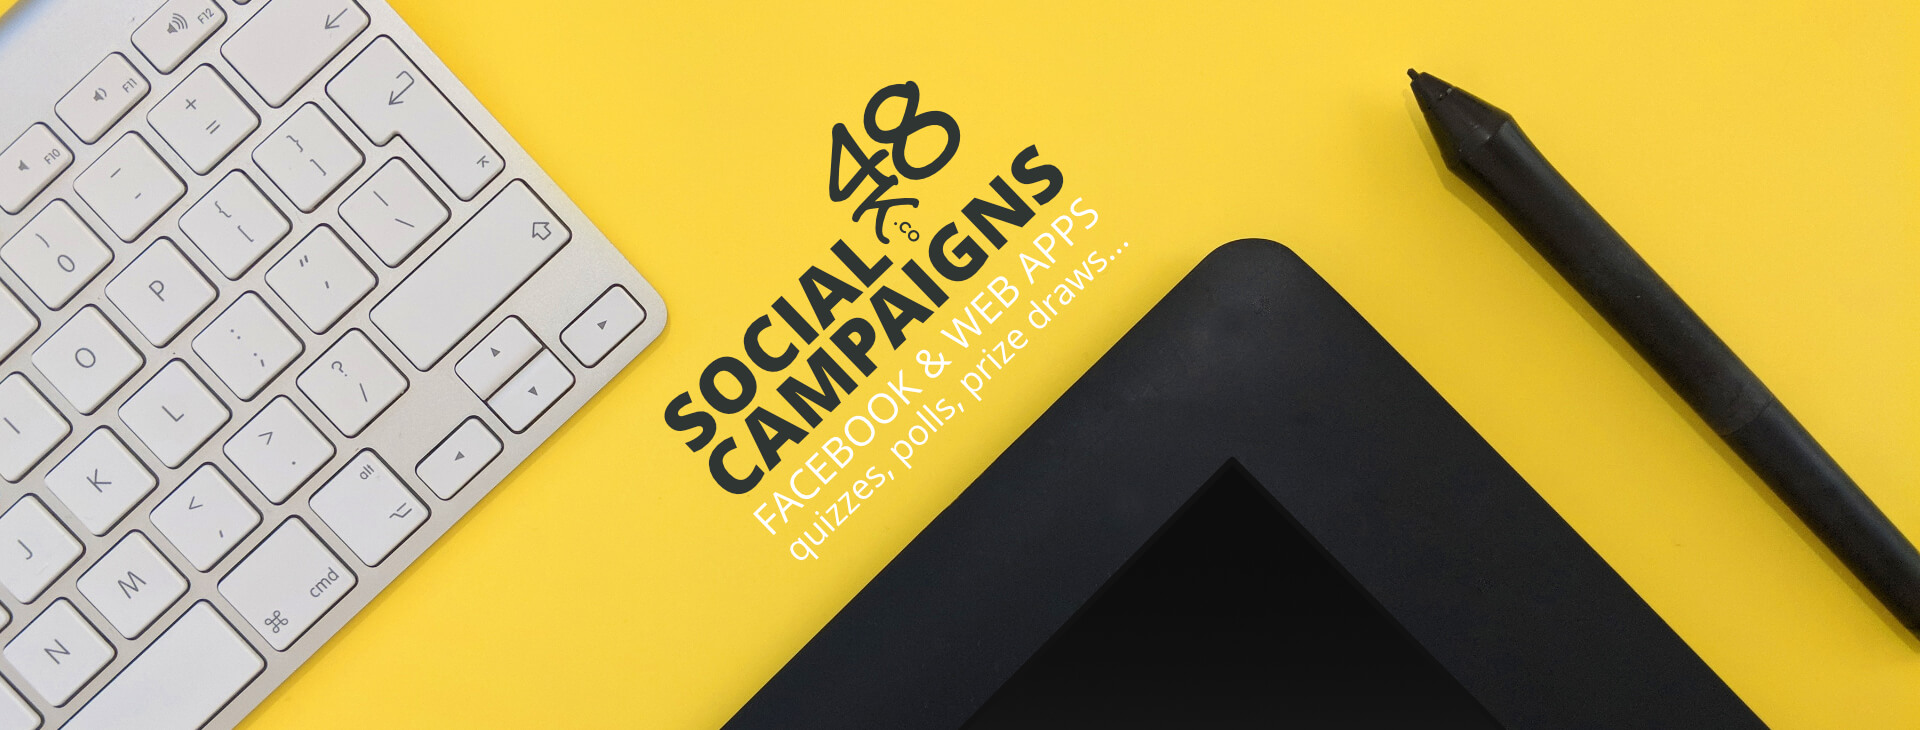
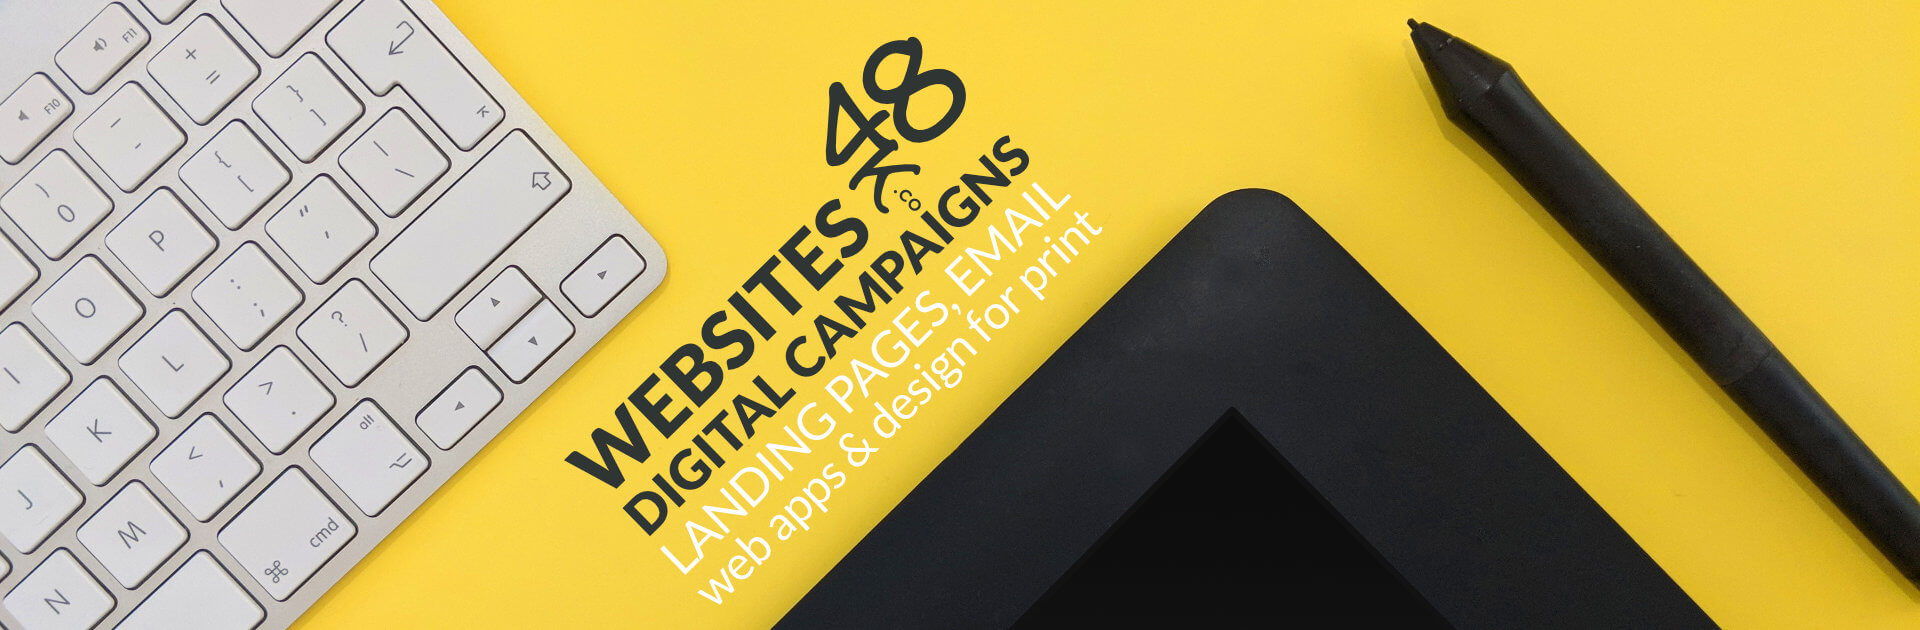
2019 updates

diff --git a/index.html b/index.html
@@ -3,9 +3,9 @@
 <head>
     <meta name="viewport" content="width=device-width, initial-scale=1.0" />
     <meta charset='UTF-8'>
-    <title>48k - digital campaigns and Facebook apps</title>
+    <title>48k - websites, digital campaigns and design for print</title>
 
-    <meta name="description" content="Digital Expertise for Agencies and Marketing Departments">
+    <meta name="description" content="Digital Expertise for Agencies, Marketing Departments and SMEs.">
 
     <link href='//fonts.googleapis.com/css?family=Raleway:400,800,600,700' rel='stylesheet' type='text/css'>
     <link href="static/style.min.css" rel="stylesheet" />
@@ -17,33 +17,20 @@
     
 </head>
 <body>
-    <div id="nav-wrapper">
-        <nav>
-            <ul>
-                <li><a href="#facebook-apps">Facebook apps</a></li>
-                <li><a href="#microsites">Microsites</a></li>
-                <li><a href="#calculators">Calculators &amp; quizzes</a></li>
-                <li><a href="#email">Email campaigns</a></li>
-                <li><a href="#how-we-work">How we work</a></li>
-                <li><a href="https://48kportfolio.z16.web.core.windows.net/bbe12be3-60a2-4ffc-aab8-7f4d026d1c50/index.html">Projects</a></li>
-            </ul>
-        </nav>
-    </div>
 
-
-    <header>
+    <header class="main-header">
         <img src="static/images/header.jpg" alt="48k" />
     </header>
 
-    <div class="colour-block lightblue" id="facebook-apps">
-        <section class="no-pad-b">
-            <h2>Facebook apps &amp; competitions</h2>
-            <p>
-                We've helped clients of all sizes to build and engage audiences on Facebook. Whether you're looking for a simple competition,
-                or something a bit more fun, our experience could be just what you need.
-            </p>
+    <div class="colour-block white">
+        <section>
+            <h1>We deliver websites, digital marketing, and design for print</h1>
 
-            <img src="static/images/facebook.jpg" alt="Facebook apps and competitions" />
+            <p>We offer a flexible, personal and cost effective service that means you deal directly with the people working on your project. Our clients are part of the team, we keep you up to date, ensure you get the answers you need and the results you want.</p>
+
+            <p>We work with businesses of all sizes from SMEs to large enterprises, with agencies and directly with marketing departments. Find out more about us and <a href="#how-we-work">how we work</a>.</p>
+
+            <p>Call us on <a href="tel:01400223566">01400 22 35 66</a> to discuss how we can help you achieve more online, or send details of your project to <a href="mailto:hey@48k.co">hey@48k.co</a>.</p>
 
             <a href="mailto:hey@48k.co" class="contact">hey@48k.co</a>
         </section>
@@ -51,10 +38,14 @@
 
     <div class="colour-block darkblue" id="microsites">
         <section>
-            <h2 class="greentext">Microsites</h2>
+            <h2>Website design, development & eCommerce</h2>
+
+            <p>It goes without saying that we know the web. We're experienced at building content managed web sites, campaign landing pages, custom applications and more. 
+                We build with SEO in mind and use responsive techniques to ensure your message gets across, regardless of platform or device.</p>
+
             <p>
-                It goes without saying that we know the web. We're experienced in building campaign microsites, content managed web sites and more,
-                using responsive techniques to ensure your message gets across regardless of platform or device.
+                If you're looking to sell online we can help you with a secure and fully featured Shopify store. 
+                For existing Shopify stores we can help you with design, custom features and marketing automation to grow your business.
             </p>
 
             <img src="static/images/microsites.png" alt="Microsites" />
@@ -63,9 +54,43 @@
         </section>
     </div>
 
+    <div class="colour-block turquoise" id="design">
+        <section>
+            <h2 class="greytext">Design & print</h2>
+
+            <div class="row">
+                <div class="grid-7">
+                    <img src="static/images/design-print02.png" class="center" alt="Design & print" />
+                </div>
+
+                <div class="grid-6">
+                    <p>Leaflets, brochures, banners and pull up stands, whatever your needs we design, manage, print and deliver your marketing materials so you can look great at a competitive price.</p>
+
+                    <p>Already have existing artwork that needs updating? No problem, just drop over some details and we can suggest the most efficient way to get the job done.</p>
+                </div>
+            </div>
+
+            <a href="mailto:hey@48k.co" class="contact">hey@48k.co</a>
+        </section>
+    </div>
+
+    <div class="colour-block lightblue" id="facebook-apps">
+        <section class="no-pad-b">
+            <h2>Marketing campaigns & landing pages</h2>
+            <p>
+                We've helped clients of all sizes to build and engage audiences online. Whether you're looking for a simple landing page,
+                or a more advanced campaign, our experience could be just what you need.
+            </p>
+
+            <img src="static/images/facebook.jpg" alt="Marketing campaigns and landing pages" />
+
+            <a href="mailto:hey@48k.co" class="contact">hey@48k.co</a>
+        </section>
+    </div>
+
     <div class="colour-block lightblue" id="calculators">
         <section>
-            <h2 class="orangetext">Calculators &amp; quizzes</h2>
+            <h2 class="orangetext">Web &amp; mobile apps</h2>
 
             <div class="row">
                 <div class="grid-7">
@@ -109,12 +134,12 @@
             <p>
                 We've a wealth of agency and client side experience combined with industry contacts built over many years.
                 We offer a flexible, personal and cost effective service. This means that you'll be speaking directly with the people working on your project,
-                always a good thing in an industry where complexity is easy but simplicity takes practice.
+                always a good thing in an industry where complexity is easy but simplicity comes with experience.
             </p>
 
             <p>
-                Between us 48k have more than 25 years experience of delivering digital projects for both public and private sector clients across agencies
-                and directly to marketing departments. We're familiar with the unique challenges each can present.
+                Between us 48k have more than 25 years experience of delivering digital projects for both public and private sector clients across agencies, 
+                directly to marketing departments and small businesses. We're familiar with the unique challenges each can present.
             </p>
 
             <p>We understand the importance of demonstrating return on investment. And recognise the challenge of squeezing the most from your budget, big or small.</p>

diff --git a/static/style.min.css b/static/style.min.css
@@ -1,1 +1,1 @@
-body{margin:0;padding:0;border:0;font-family:Raleway,sans-serif;font-size:1em}p{margin-top:0;font-size:1.125em;line-height:1.5em;font-weight:400}p strong{font-weight:700}p a{color:#fff;font-weight:600}i{font-style:italic}img{display:block;max-width:100%}img.center{margin:0 auto}img.margin-b{margin-bottom:20px}.red{background-color:#e84c3d;color:#fff}.lightblue{background-color:#eff3f4;color:#374756}.darkblue{color:#fff}.medblue{background-color:#3a5998;color:#fff}.turquoise{background-color:#49d5ca;color:#374756}.darkblue{background-color:#2d3e50}.yellow{background-color:#f9c742}.black{background-color:#000}.yellowtext{color:#f9c742}.bluetext{color:#374756}.greentext{color:#a9cf6a}.orangetext{color:#fd5f42}.greytext{color:#e4e3de}.lightblue a{color:#374756}.colour-block{border-bottom:3px solid #323338}section{max-width:1046px;margin:0 auto;padding:40px 20px 60px;position:relative}header{position:relative;padding:0}header img{display:block;max-width:100%}header.subpage{padding-bottom:10px}footer{padding:60px 0}.no-pad-b{padding-bottom:0}.row:before{display:table;content:" "}.row:after{clear:both;display:table;content:" "}.row{margin-right:-15px;margin-left:-15px}#nav-wrapper{background-color:#f9c742}nav{max-width:1046px;margin:0 auto}nav ul{padding:0;width:900px;margin:0 auto}nav ul:after{clear:both;display:table;content:" "}nav ul li{list-style-type:none;float:left;display:block;margin:0 18px}nav ul li a{font-size:.9375em;color:#374756;font-weight:600;text-decoration:none;line-height:2.3em}nav ul li a:hover{color:#e84c3d}h1{text-align:center;font-size:3.5em;font-weight:700;color:#fff;text-shadow:2px 2px 2px rgba(0,0,0,.2);padding-right:20px;margin-bottom:1.5em}.no-margin-b{margin-bottom:0}h2{text-align:center;text-transform:uppercase;font-size:2.3em;font-weight:700}h2.subhead{text-transform:none;font-size:1.8em;margin-top:0}h3{font-size:2em;font-weight:700;margin-top:.5em}h4{font-size:1.2em;font-weight:700;margin-top:0;margin-bottom:.3em}.grid-6{width:472px;margin:0 10px;float:left}.grid-6-5{width:513px;margin:0 10px;float:left}.grid-7{width:554px;margin:0 10px;float:left}.highlight{font-size:24px;font-weight:600;line-height:1.2em;letter-spacing:-.5px}.contact{display:inline-block;background-color:#f9c742;border:3px solid #374756;border-radius:25px;padding:1px 15px;text-decoration:none;font-weight:600;font-size:1em;line-height:2.5em;color:#374756;position:absolute;bottom:-26px;margin:0 auto;left:0;right:0;width:250px;text-align:center;z-index:10}.contact:hover{color:#e84c3d}iframe{width:100%;border:2px solid #fff;height:420px;overflow:hidden}@media only screen and (max-width:1100px){.grid-6,.grid-6-5,.grid-7{width:98%;padding-bottom:40px}.grid-6-5{padding-bottom:0}img{margin:0 auto}#nav-wrapper{display:none}iframe{width:98%}}
+body{margin:0;padding:0;border:0;font-family:Raleway,sans-serif;font-size:1em}p{margin-top:0;font-size:1.125em;line-height:1.5em;font-weight:400}p strong{font-weight:700}p a{color:#fff;font-weight:600}i{font-style:italic}img{display:block;max-width:100%}img.center{margin:0 auto}img.margin-b{margin-bottom:20px}.red{background-color:#e84c3d;color:#fff}.lightblue{background-color:#eff3f4;color:#374756}.white{background-color:#fff;color:#374756}.darkblue{color:#fff}.medblue{background-color:#3a5998;color:#fff}.turquoise{background-color:#49d5ca;color:#374756}.darkblue{background-color:#2d3e50}.yellow{background-color:#f9c742}.black{background-color:#000}.yellowtext{color:#f9c742}.bluetext{color:#374756}.greentext{color:#a9cf6a}.orangetext{color:#fd5f42}.greytext{color:#e4e3de}.lightblue a,.white a{color:#374756}a[href^="tel:"]{text-decoration:none}.colour-block{border-bottom:3px solid #323338}section{max-width:1046px;margin:0 auto;padding:40px 20px 60px;position:relative}header{position:relative;padding:0}header img{display:block;max-width:100%}header.subpage{padding-bottom:10px}footer{padding:60px 0}.no-pad-b{padding-bottom:0}.row:before{display:table;content:" "}.row:after{clear:both;display:table;content:" "}.row{margin-right:-15px;margin-left:-15px}#nav-wrapper{background-color:#f9c742}nav{max-width:1046px;margin:0 auto}nav ul{padding:0;width:900px;margin:0 auto}nav ul:after{clear:both;display:table;content:" "}nav ul li{list-style-type:none;float:left;display:block;margin:0 18px}nav ul li a{font-size:.9375em;color:#374756;font-weight:600;text-decoration:none;line-height:2.3em}nav ul li a:hover{color:#e84c3d}h1{text-align:center;font-size:3.5em;font-weight:700;text-shadow:2px 2px 2px rgba(0,0,0,.2);padding-right:20px;margin-bottom:1em;margin-top:0;color:#374756}.no-margin-b{margin-bottom:0}h2{text-align:center;font-size:2.3em;font-weight:700}h2.subhead{text-transform:none;font-size:1.8em;margin-top:0}h3{text-align:center;font-size:2em;font-weight:700;margin-top:.5em}h4{font-size:1.2em;font-weight:700;margin-top:0;margin-bottom:.3em}.grid-6{width:472px;margin:0 10px;float:left}.grid-6-5{width:513px;margin:0 10px;float:left}.grid-7{width:554px;margin:0 10px;float:left}.highlight{font-size:24px;font-weight:600;line-height:1.2em;letter-spacing:-.5px}.contact{display:inline-block;background-color:#f9c742;border:3px solid #374756;border-radius:25px;padding:1px 15px;text-decoration:none;font-weight:600;font-size:1em;line-height:2.5em;color:#374756;position:absolute;bottom:-26px;margin:0 auto;left:0;right:0;width:250px;text-align:center;z-index:10}.contact:hover{color:#e84c3d}iframe{width:100%;border:2px solid #fff;height:420px;overflow:hidden}@media only screen and (max-width:1100px){h1{font-size:2.8em}.grid-6,.grid-6-5,.grid-7{width:98%;padding-bottom:40px}.grid-6-5{padding-bottom:0}img{margin:0 auto}#nav-wrapper{display:none}iframe{width:98%}}@media only screen and (max-width:650px){h1{font-size:2em}h2{font-size:1.7em}.main-header{overflow:hidden;text-align:center}.main-header img{width:800px;max-width:800px;transform:translateX(-20%)}}

diff --git a/static_src/style.css b/static_src/style.css
@@ -45,6 +45,7 @@ img.margin-b{
 
 .red{ background-color: #e84c3d; color: #ffffff; }
 .lightblue{ background-color: #eff3f4; color: #374756; }
+.white{ background-color: #ffffff; color: #374756; }
 .darkblue{ background-color: #2d3e50; color: #ffffff; }
 .medblue{ background-color:#3a5998; color:#ffffff; }
 .turquoise{ background-color: #49d5ca; color: #374756; }
@@ -57,8 +58,13 @@ img.margin-b{
 .orangetext{ color:#fd5f42; }
 .greytext{ color:#e4e3de; }
 
-.lightblue a{
+.lightblue a, 
+.white a{
     color: #374756;
+}
+
+a[href^="tel:"] {
+    text-decoration: none;
 }
 
 .colour-block{
@@ -158,7 +164,9 @@ h1{
     color:#ffffff;
     text-shadow: 2px 2px 2px rgba(0,0,0,0.2);
     padding-right:20px;
-    margin-bottom:1.5em;
+    margin-bottom:1em;
+    margin-top: 0;
+    color: #374756;
 }
 
 .no-margin-b{
@@ -167,7 +175,6 @@ h1{
 
 h2{
     text-align:center;
-    text-transform:uppercase;
     font-size:2.3em;
     font-weight:700;
 }
@@ -179,6 +186,7 @@ h2.subhead{
 }
 
 h3{
+    text-align: center;
     font-size:2em;
     font-weight:700;
     margin-top:0.5em;
@@ -250,6 +258,10 @@ iframe{
 
 @media only screen and (max-width: 1100px) {
     
+    h1 {
+        font-size: 2.8em;
+    }
+
     .grid-6, .grid-7, .grid-6-5{
         width:98%;
         padding-bottom:40px;
@@ -269,5 +281,27 @@ iframe{
 
     iframe {
         width: 98%;
+    }
+}
+
+@media only screen and (max-width: 650px) {
+
+    h1 {
+        font-size: 2em;
+    }
+
+    h2 {
+        font-size: 1.7em;
+    }
+
+    .main-header {
+        overflow: hidden;
+        text-align: center;
+    }
+
+    .main-header img{
+        width: 800px;
+        max-width: 800px;
+        transform: translateX(-20%);
     }
 }
